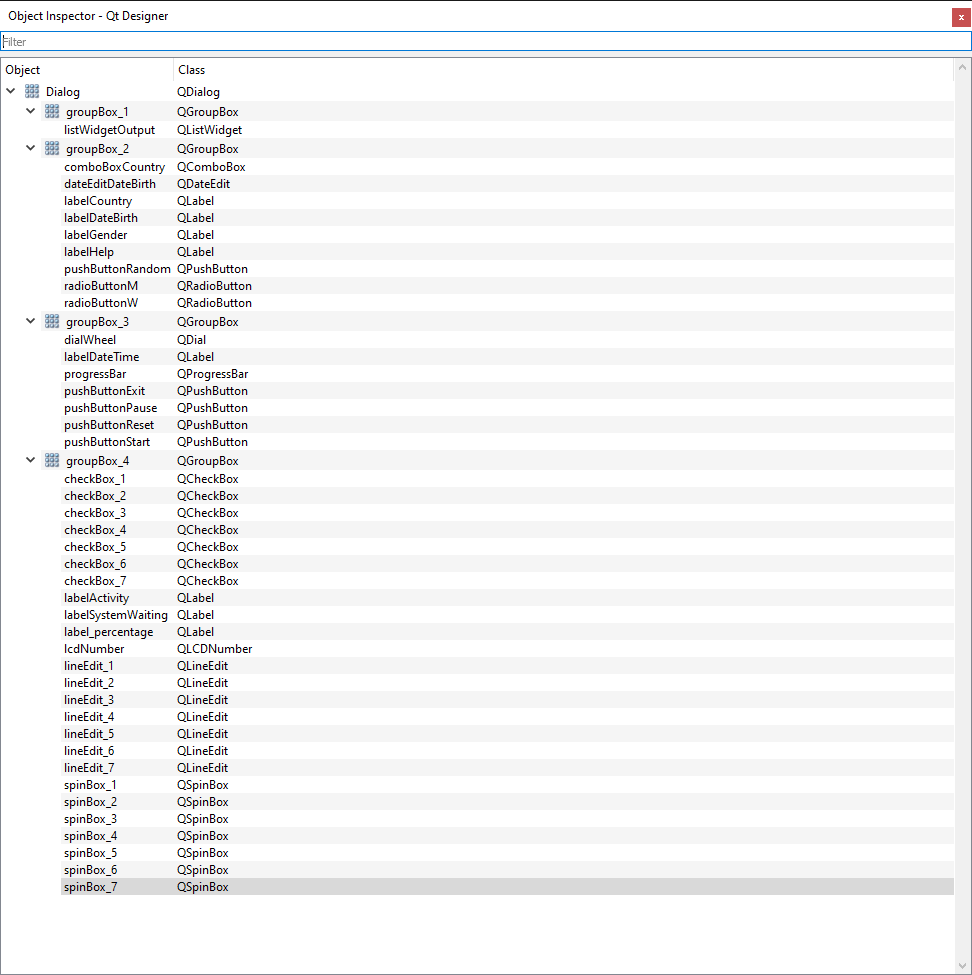
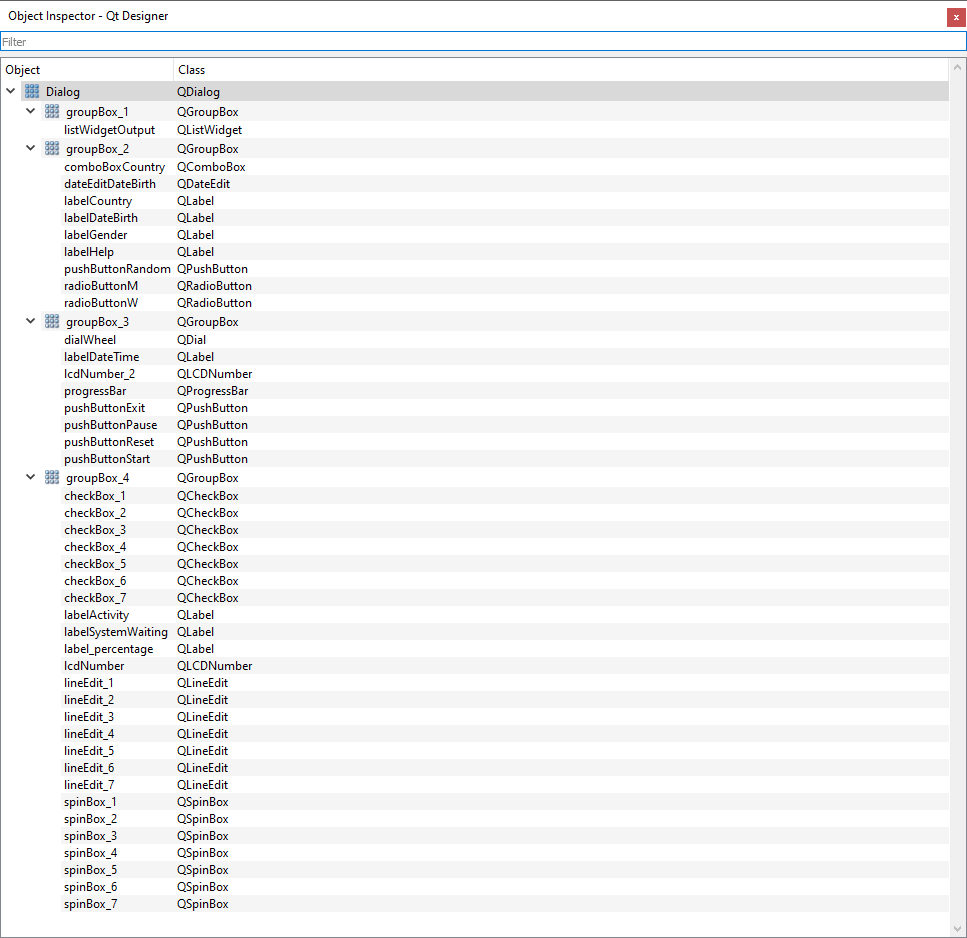
Dial_Speed

Changed region(s): [[0.0, 0.0, 1.0, 0.9893]]

diff --git a/Main.py b/Main.py
@@ -1,6 +1,10 @@
 import sys, datetime, time
-from matplotlib import pyplot as plt
 from PyQt5 import QtWidgets, QtCore, uic, QtTest
+
+# variables (global)
+
+dial_speed=1
+
 class MeinDialog(QtWidgets.QDialog):
     def __init__(self, parent=None):
         super().__init__(parent)
@@ -10,11 +14,20 @@ class MeinDialog(QtWidgets.QDialog):
         self.ui.pushButtonStart.clicked.connect(self.showDateTime)
         self.ui.pushButtonStart.clicked.connect(self.timer)
         self.ui.pushButtonExit.clicked.connect(self.exit)
+        self.ui.dialWheel.valueChanged.connect(self.speed)
 # functions
+        
+
+        # control of the counting speed with the dialWheel, global var: dial_speed
+    def speed(self):
+        global dial_speed
+        dial_speed=self.ui.dialWheel.value()
+        
 
         # exit program  
     def exit(self):
         sys.exit()
+
 
         # shows Date and Time
     def showDateTime(self):
@@ -24,20 +37,30 @@ class MeinDialog(QtWidgets.QDialog):
 
         # timer that counts in the future with various speed 
     def timer(self):
+        global dial_speed
+        #Dial from 1-100 (key) => speed QTest: 5000 - 50 (value) via dictionary
+        dic_speed={}
+        x= range(1,101,1)
+        xkey=1000
+        for i in x:
+            dic_speed[i]=xkey 
+            xkey-=10
+
         x=datetime.datetime.now()
         z=x.strftime("%Y")
         self.ui.labelDateTime.setText(z)
         var=x.year
         while True:
-            if var==2050:
+            if var==2099:
                 break
             else:
                 var+=1
                 y=x.replace(year=var)
                 z=y.strftime("%Y")
                 self.ui.labelDateTime.setText(z)
-        #Delay wit QTest
-                QtTest.QTest.qWait(500)
+        #combine QTest and dictionary 
+                d=dic_speed[dial_speed]
+                QtTest.QTest.qWait(d)
         self.ui.labelDateTime.setText("You are dead")
 
 app = QtWidgets.QApplication(sys.argv)
